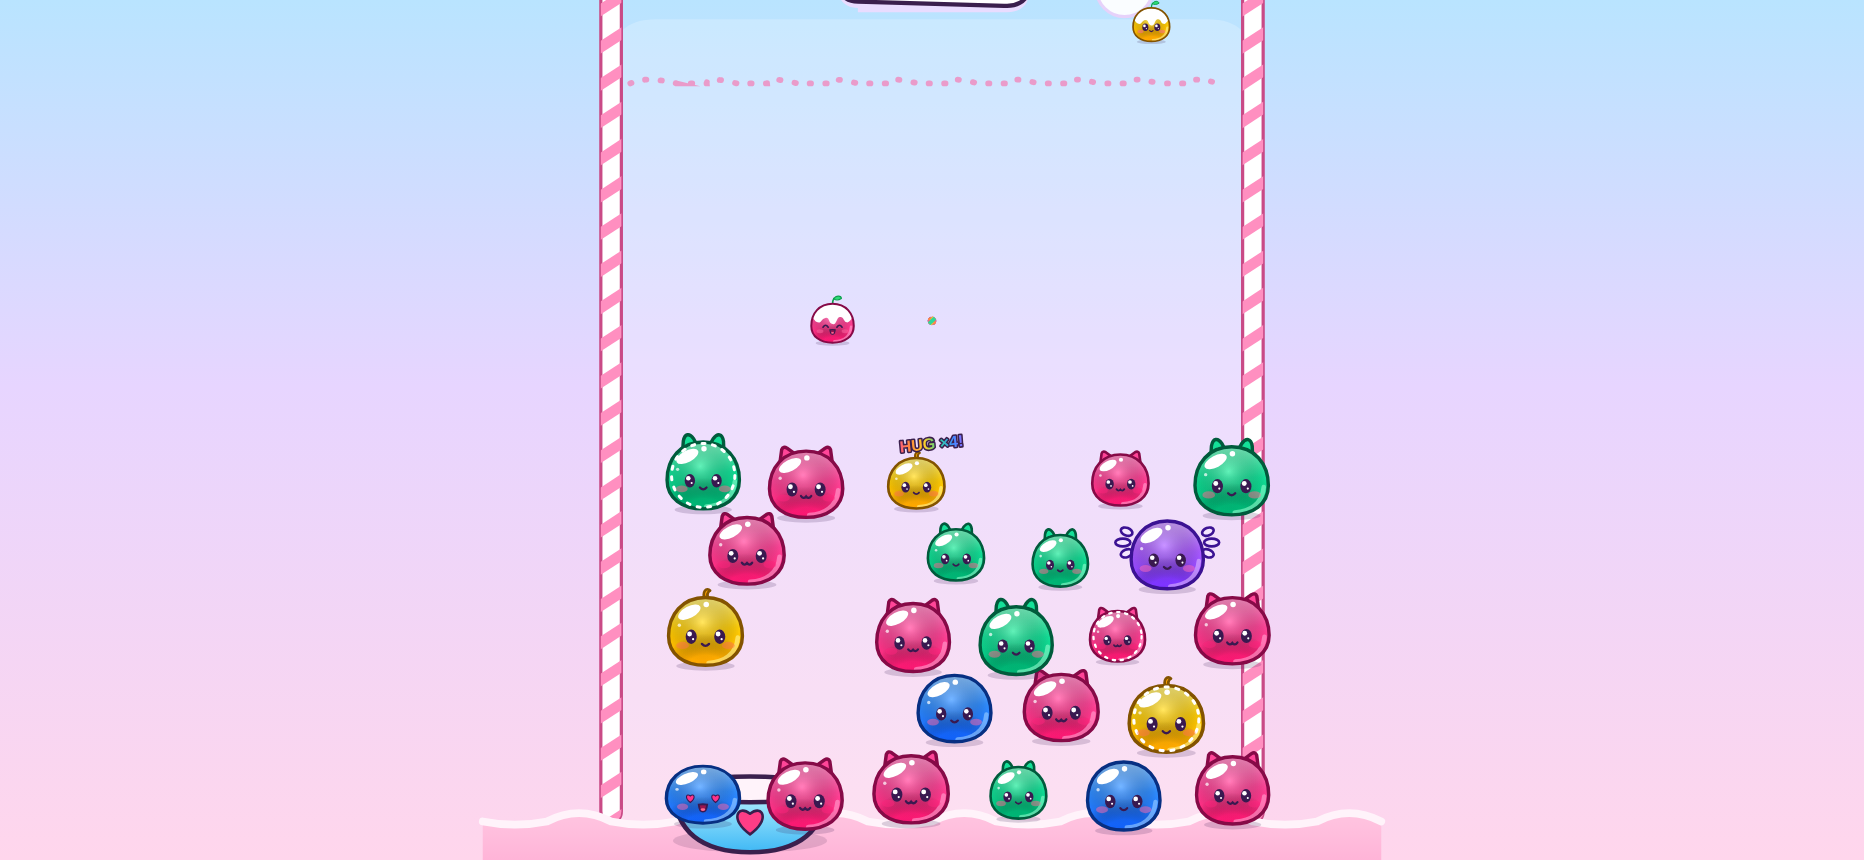
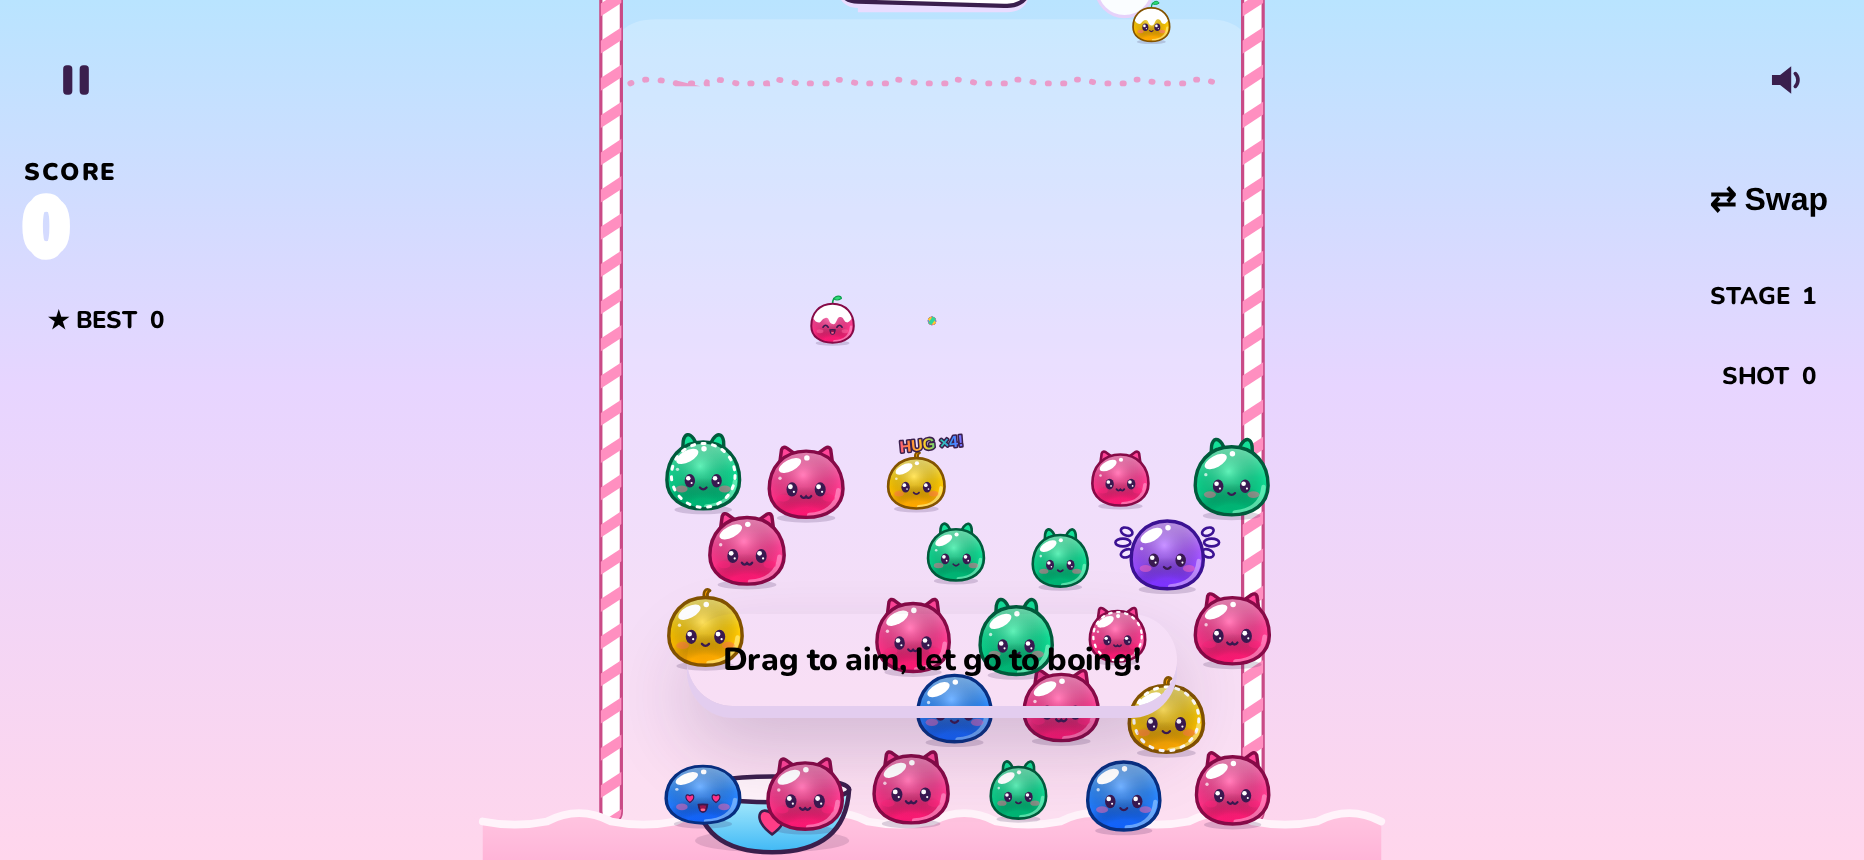
fix: QA play capture shows HUD, Pip in cloud, and aim preview

diff --git a/src/game/app.ts b/src/game/app.ts
@@ -126,8 +126,9 @@ export class GameApp {
         this.aiming = true;
         this.aimAngle = -0.72;
       }
-      const n = this.qaAutoplay || (scr === 'combo' ? 4 : scr === 'play' ? 2 : 0);
+      const n = this.qaAutoplay || (scr === 'combo' ? 4 : 0);
       if (n === 0) {
+        this.freeze = this.freeze || params.has('freeze');
         this.syncHud();
         window.__ready = true;
         return;
@@ -147,6 +148,7 @@ export class GameApp {
             }
           }
           this.freeze = true;
+          this.syncHud();
           window.__ready = true;
           return;
         }
@@ -158,6 +160,7 @@ export class GameApp {
       setTimeout(fire, 400);
       setTimeout(() => {
         this.freeze = true;
+        this.syncHud();
         window.__ready = true;
       }, 12_000);
     }

diff --git a/qa/layout.spec.ts b/qa/layout.spec.ts
@@ -32,9 +32,11 @@ for (const [w, h] of viewports) {
           if (msg.type() === 'error') errors.push(msg.text());
         });
         const mid =
-          screen === 'play' || screen === 'combo'
-            ? '&autoplay=2&aim=1'
-            : '';
+          screen === 'play'
+            ? '&aim=1'
+            : screen === 'combo'
+              ? '&autoplay=2&aim=1'
+              : '';
         const freeze =
           screen === 'play' || screen === 'combo' ? '' : '&freeze=1';
         await page.goto(`/?qa&screen=${screen}${freeze}${mid}`, {
